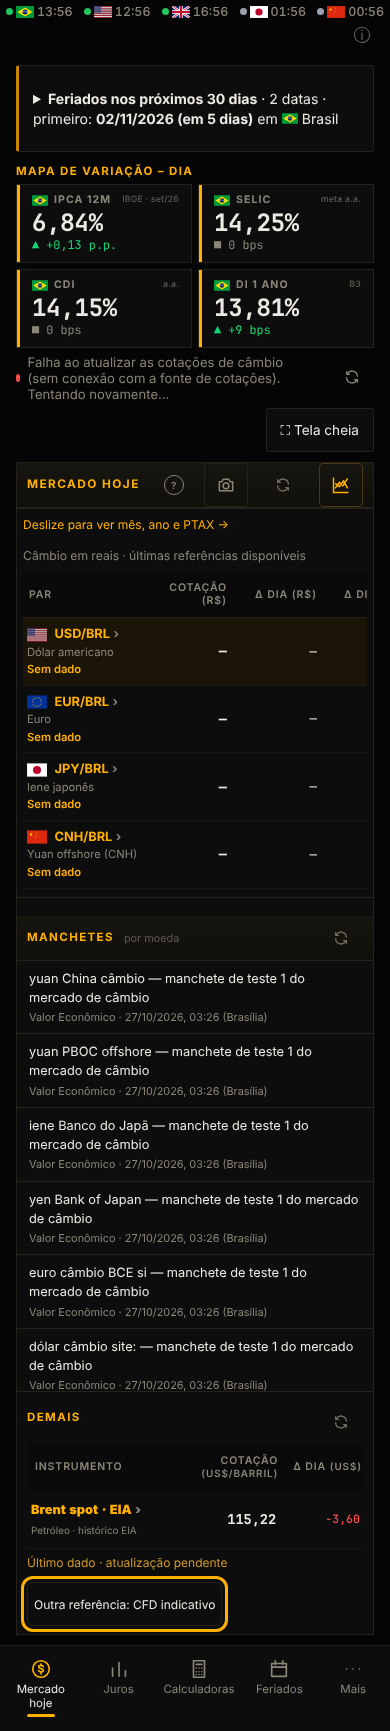
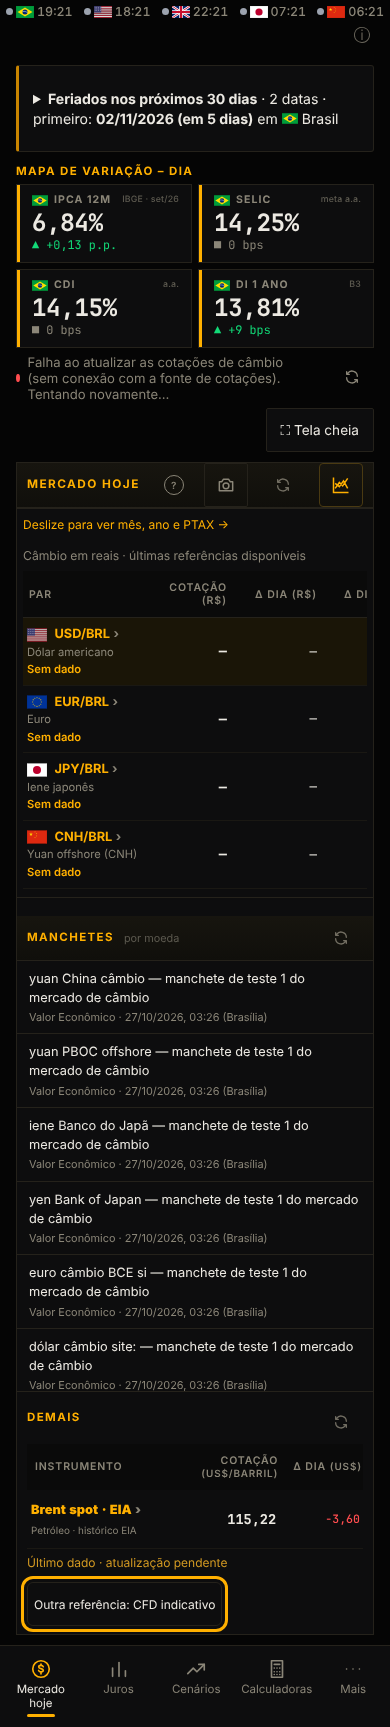
Menu: Mercado hoje, Juros, Cenários e demais; Projeções com sinais acima/abaixo/igual ao Focus linha a linha
Claude-Session: https://claude.ai/code/session_01Pj2LmXRZ25VqSDYpejk8wu

diff --git a/cotacoes/src/Projecoes.jsx b/cotacoes/src/Projecoes.jsx
@@ -1,8 +1,9 @@
+import './Projecoes.css'
 import RefreshButton from './RefreshButton.jsx'
 import { onRefresh } from './refreshBus.js'
 import { Aviso } from './Avisos.jsx'
 import { useEffect, useState } from 'react'
-import { INDICATORS, INSTITUTIONS, scenarioValue } from './scenarios.js'
+import { FOCUS_MARK, INDICATORS, INSTITUTIONS, compareToFocus, scenarioValue } from './scenarios.js'
 
 const date = (value) => /^\d{4}-\d{2}-\d{2}$/.test(value ?? '') ? value.split('-').reverse().join('/') : 'data não informada'
 const format = (value) => value === null ? '—' : value.toLocaleString('pt-BR', { minimumFractionDigits: 2, maximumFractionDigits: 2 })
@@ -35,11 +36,16 @@ export default function Projecoes({ macro }) {
         <p className="scroll-hint">Deslize para ver os demais bancos →</p>
         <div className="scroll scenario-scroll" tabIndex={0} role="region" aria-label={`Comparação das projeções para ${year}`}>
           <table className="focus-table scenario-table">
-            <caption >Projeções para {year}, por instituição. Valores ausentes indicados por travessão.</caption>
+            <caption >Projeções para {year}, por instituição. Valores ausentes indicados por travessão. <span className="focus-legend">Sinais comparam cada banco com o FOCUS da mesma linha: <b className="fm up">▲</b> acima · <b className="fm down">▼</b> abaixo · <b className="fm same">=</b> igual (2 casas).</span></caption>
             <thead><tr><th scope="col">Indicador</th>{INSTITUTIONS.map((name) => <th scope="col" key={name}>{name}</th>)}</tr></thead>
             <tbody>{INDICATORS.map((indicator) => <tr key={indicator.id}>
               <th scope="row">{indicator.label}<small>{indicator.unit}</small></th>
-              {INSTITUTIONS.map((name) => <td key={name}>{format(scenarioValue(name, indicator, year, focus, banks))}</td>)}
+              {INSTITUTIONS.map((name) => {
+                const value = scenarioValue(name, indicator, year, focus, banks)
+                const cmp = name === 'FOCUS' ? null : compareToFocus(value, scenarioValue('FOCUS', indicator, year, focus, banks))
+                const mark = cmp && FOCUS_MARK[cmp]
+                return <td key={name} className={cmp ? `vs-focus vs-${cmp}` : undefined}>{format(value)}{mark && <span className={`fm ${cmp}`} role="img" aria-label={mark.text} title={mark.text}>{mark.symbol}</span>}</td>
+              })}
             </tr>)}</tbody>
           </table>
         </div>

diff --git a/cotacoes/src/Nav.jsx b/cotacoes/src/Nav.jsx
@@ -10,18 +10,18 @@ const Icon = ({ d }) => (
 export const TABS = [
   { id: 'resumo', label: 'Mercado hoje', icon: ['M12 3a9 9 0 100 18 9 9 0 000-18z', 'M14.5 9.5c-.4-1-1.3-1.5-2.5-1.5-1.4 0-2.5.7-2.5 1.8 0 2.4 5 1.2 5 3.6 0 1.1-1.1 1.8-2.5 1.8-1.3 0-2.2-.6-2.6-1.6', 'M12 6.5V8M12 16v1.5'] },
   { id: 'juros', label: 'Juros', icon: ['M5 20V11', 'M12 20V5', 'M19 20v-6'] },
-  { id: 'calculadora', label: 'Calculadoras', icon: ['M6 3h12v18H6z', 'M9 7h6', 'M9 11h.01M12 11h.01M15 11h.01M9 15h.01M12 15h.01M15 15h.01M9 18h.01M12 18h.01M15 18h.01'] },
-  { id: 'feriados', label: 'Feriados', icon: ['M4 6h16v14H4z', 'M4 10h16', 'M8 3v4M16 3v4'] },
   { id: 'cenarios', label: 'Cenários', icon: ['M3 17l6-6 4 4 8-8', 'M15 7h6v6'] },
+  { id: 'calculadora', label: 'Calculadoras', icon: ['M6 3h12v18H6z', 'M9 7h6', 'M9 11h.01M12 11h.01M15 11h.01M9 15h.01M12 15h.01M15 15h.01M9 18h.01M12 18h.01M15 18h.01'] },
   { id: 'noticias', label: 'Notícias', icon: ['M6 3h9l4 4v14H6z', 'M14 3v5h5', 'M9 12h6M9 16h6'] },
+  { id: 'feriados', label: 'Feriados', icon: ['M4 6h16v14H4z', 'M4 10h16', 'M8 3v4M16 3v4'] },
   { id: 'aprender', label: 'Aprender', icon: ['M3 9l9-5 9 5-9 5-9-5z', 'M7 11.5V16c0 1.2 2.2 2.5 5 2.5s5-1.3 5-2.5v-4.5', 'M21 9v6'] },
   { id: 'config', label: 'Configurações', icon: ['M12 9a3 3 0 100 6 3 3 0 000-6z', 'M19.4 15a1.7 1.7 0 00.3 1.8l.1.1a2 2 0 11-2.8 2.8l-.1-.1a1.7 1.7 0 00-1.8-.3 1.7 1.7 0 00-1 1.5V21a2 2 0 11-4 0v-.1a1.7 1.7 0 00-1.1-1.5 1.7 1.7 0 00-1.8.3l-.1.1a2 2 0 11-2.8-2.8l.1-.1a1.7 1.7 0 00.3-1.8 1.7 1.7 0 00-1.5-1H3a2 2 0 110-4h.1a1.7 1.7 0 001.5-1.1 1.7 1.7 0 00-.3-1.8l-.1-.1a2 2 0 112.8-2.8l.1.1a1.7 1.7 0 001.8.3H9a1.7 1.7 0 001-1.5V3a2 2 0 114 0v.1a1.7 1.7 0 001 1.5 1.7 1.7 0 001.8-.3l.1-.1a2 2 0 112.8 2.8l-.1.1a1.7 1.7 0 00-.3 1.8V9a1.7 1.7 0 001.5 1H21a2 2 0 110 4h-.1a1.7 1.7 0 00-1.5 1z'] },
 ]
 
-const PRIMARY = ['resumo', 'juros', 'calculadora', 'feriados']
+const PRIMARY = ['resumo', 'juros', 'cenarios', 'calculadora']
 const DOTS = ['M5 12h.01M12 12h.01M19 12h.01']
 
-// No celular, as 4 abas de uso diário ficam na barra e as demais entram em "Mais"; no computador aparecem todas.
+// Ordem: Mercado hoje, Juros, Cenários e as demais. No celular, as 4 primeiras ficam na barra e as demais entram em "Mais"; no computador aparecem todas.
 export default function Nav({ tab, onTab }) {
   const [more, setMore] = useState(false)
   const ref = useRef(null)

diff --git a/cotacoes/src/scenarios.js b/cotacoes/src/scenarios.js
@@ -5,6 +5,15 @@ export const INDICATORS = [
   { id: 'selic', label: 'Selic', unit: '% a.a. · dezembro/fim do ano', focus: 'Selic' },
   { id: 'usd', label: 'USD', unit: 'R$/US$', focus: 'Câmbio' },
 ]
+// Compara a projeção de uma instituição com a mediana do Focus da mesma linha: 'up' (acima), 'down' (abaixo), 'same' (igual
+// no que a tela mostra, 2 casas) ou null (algum dos dois ausente: nada a sinalizar).
+export function compareToFocus(value, focusValue) {
+  if (!Number.isFinite(value) || !Number.isFinite(focusValue)) return null
+  const a = Math.round(value * 100), b = Math.round(focusValue * 100)
+  return a > b ? 'up' : a < b ? 'down' : 'same'
+}
+export const FOCUS_MARK = { up: { symbol: '▲', text: 'acima do Focus' }, down: { symbol: '▼', text: 'abaixo do Focus' }, same: { symbol: '=', text: 'igual ao Focus' } }
+
 export function scenarioValue(institution, indicator, year, focus, banks) {
   const value = institution === 'FOCUS'
     ? focus?.rows?.find((row) => row.label === indicator.focus)?.values?.[year]?.median

diff --git a/cotacoes/src/Projecoes.css b/cotacoes/src/Projecoes.css
@@ -1,0 +1,5 @@
+.focus-legend { display:block; margin-top:4px; }
+.fm { display:inline-block; min-width:1.1em; text-align:center; margin-left:6px; font-size:.8em; font-weight:700; }
+.fm.up { color:var(--accent); } .fm.down { color:var(--warn); } .fm.same { color:var(--mut); }
+.vs-focus.vs-up { background:color-mix(in srgb, var(--accent) 8%, transparent); }
+.vs-focus.vs-down { background:color-mix(in srgb, var(--warn) 8%, transparent); }
